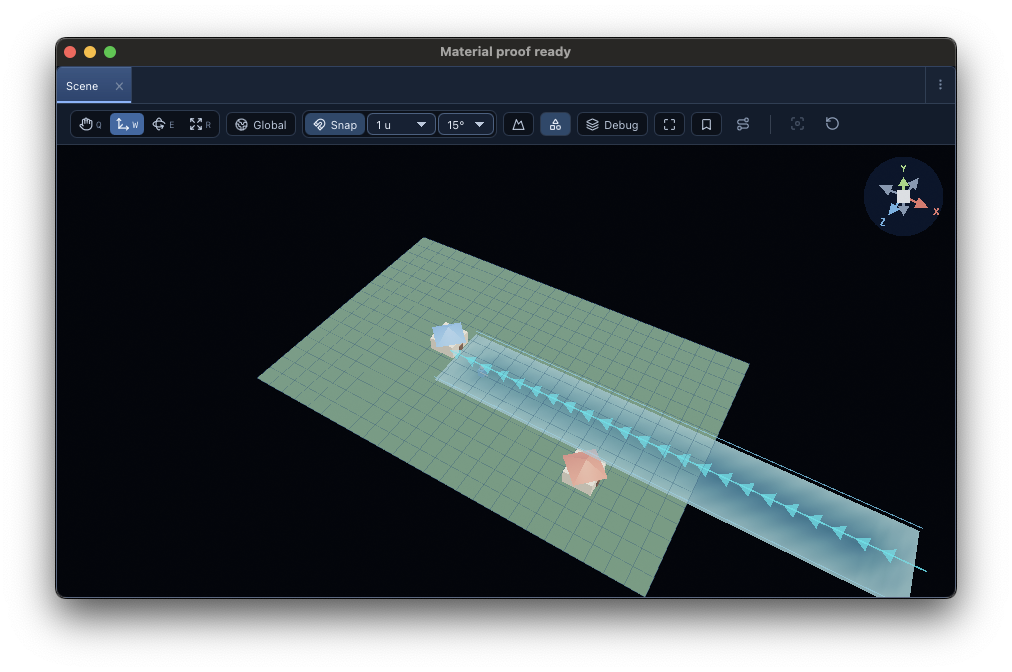
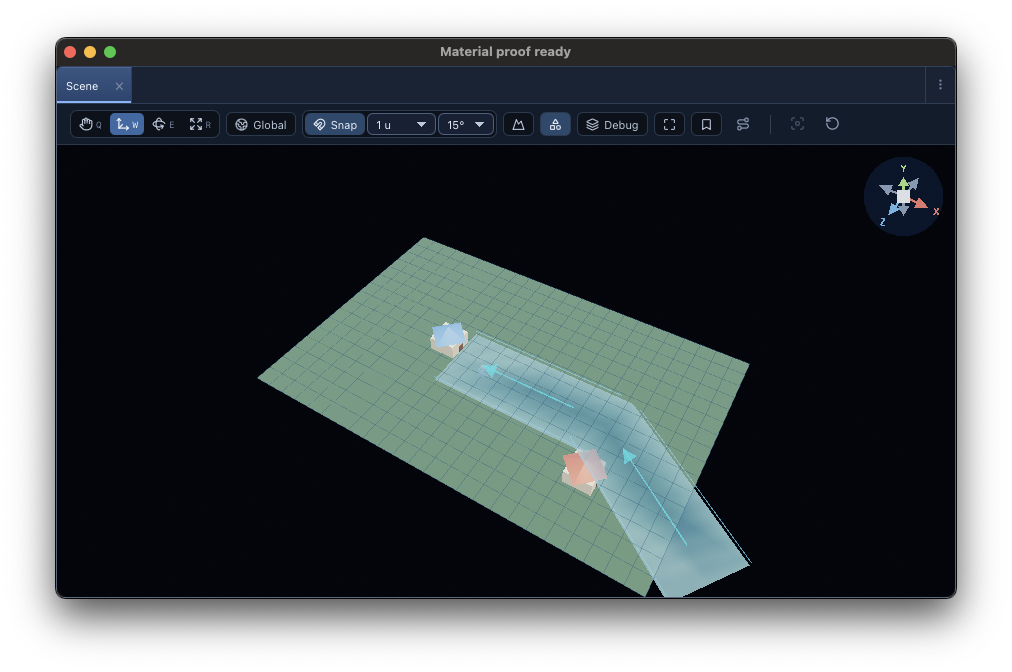
Record unnamed river regression and visible current reversal

diff --git a/docs/handoff/studio-html5/studio-only-editor.md b/docs/handoff/studio-html5/studio-only-editor.md
@@ -1736,3 +1736,7 @@ beb3676a563566b15140b219abbef4ea6616a77e adds captures/mac-scene-world-axes.png.
 ### Detached scene NEREID river flow
 
 296155d6159e5a94f3297a179b565ecc1b9b75e5 adds captures/mac-scene-river-flow.png. A disposable courtyard map contained one 24-point NereidWater river. The detached toolbar enabled River flow and Show all rivers; toggling River flow off/on/off changed 300 viewport pixels by >30 channel levels that then exactly returned to baseline (x413–900, y319–554). Menu closed for each capture. Evidence: stats-mac-1frad3zy/{before,river,restored}.png. This covers the all-rivers overlay on a single river; selected-river isolation and flow reversal require separate fixtures.
+
+### River flow edits on unnamed map entities
+
+c90f93c71756fdcc68818e7c38f0a13829bdcbb9 fixes apps/editor/AuthoringWater.h and adds the regression to tests/editor/scene_entity_adapter_tests.cpp. The initial live edit copied the water component onto an unrelated unnamed entity and broke Scene with a duplicate surface ID. Write-back now uses the same water-only document order as the read projection. Focused native adapter test, exact undo restoration and Mac Studio build passed. Detached Scene accepted +3/-3/+3 manual currents. The first tightly spaced spline did not produce distinguishable reversible pixels. With longer segments, stats-mac-v0k_19mx/{forward,reverse,restored}.png showed 348 changed viewport pixels over 30 channel levels, of which 102 exactly returned. captures/mac-river-flow-reversed.png shows the longer-segment run. Only translation is supported by the current entity manifest. Next check isolation between multiple selected rivers.
